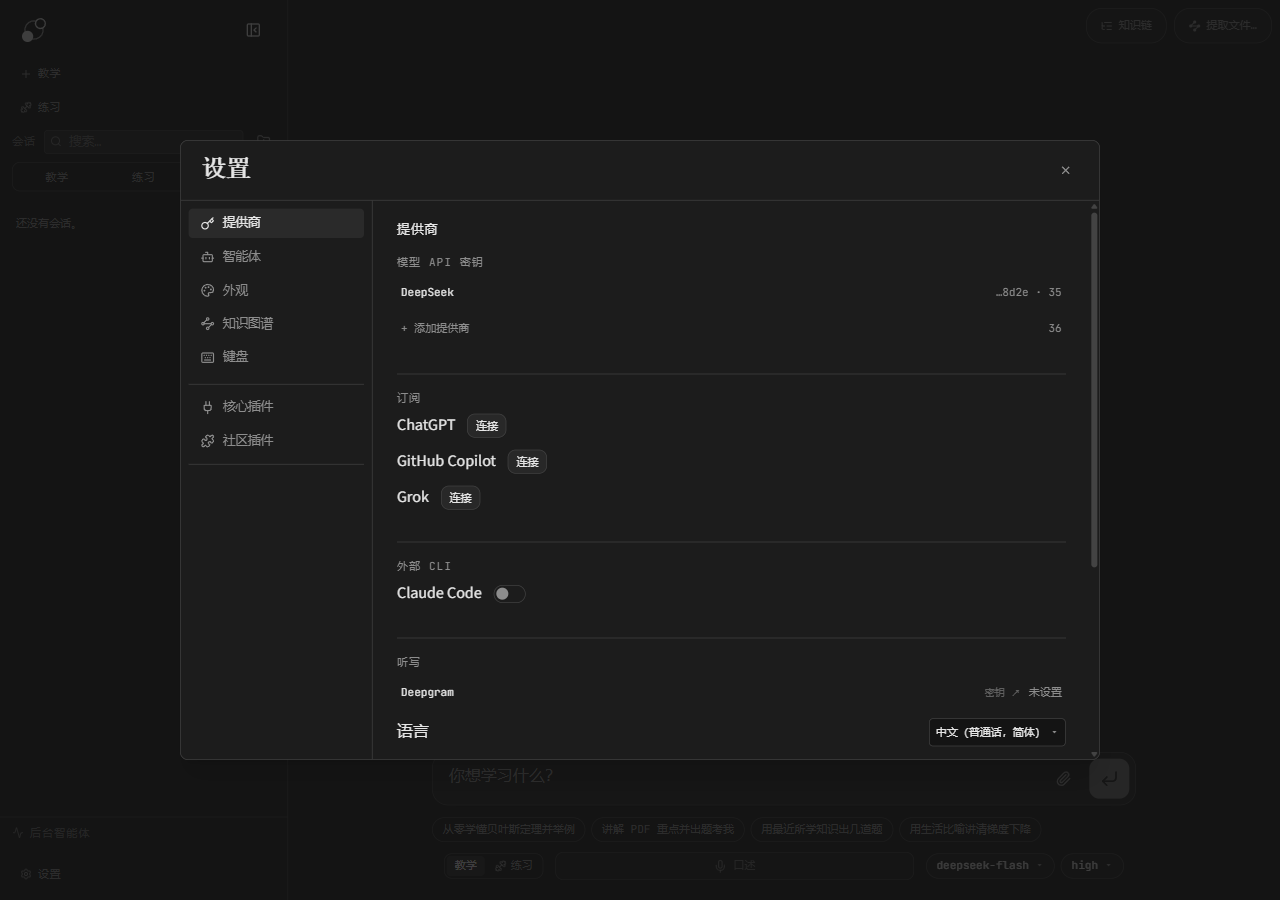
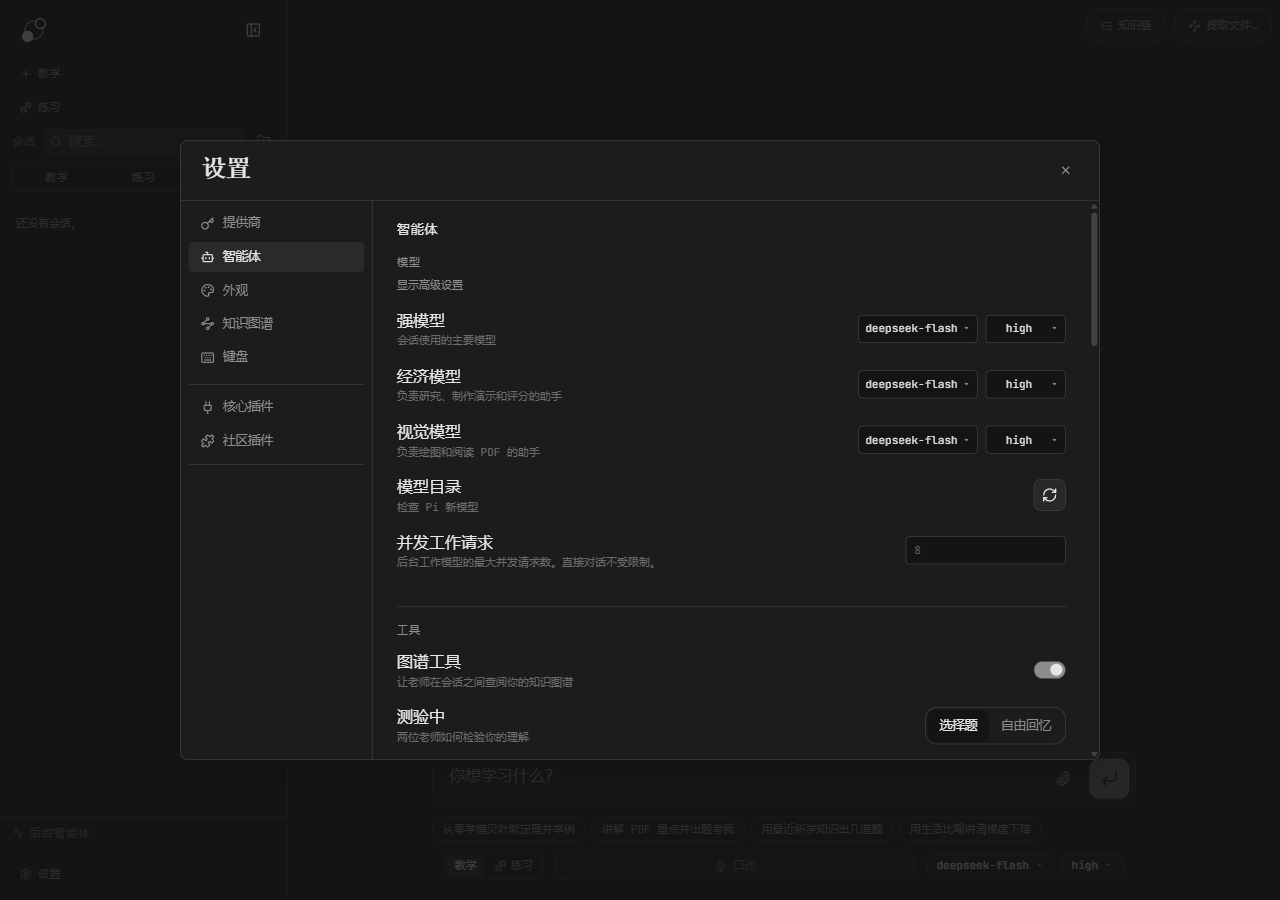
Refine screenshots and captions

diff --git a/README.ja.md b/README.ja.md
@@ -62,7 +62,7 @@
 
 モデルを選び、理解したい内容でセッションを始めます。プロバイダの API キー、デスクトップ版のサブスクリプション接続、インストール済みの Claude Code CLI、カスタム OpenAI 互換エンドポイント（ローカルモデルサーバーを含む）に対応しています。音声入力と Web 検索には別のサービスキーが必要です。
 
-モデルとキーの設定は一か所にまとまり、画面全体が中国語で表示されます。
+モデルと推論設定は一か所にまとまり、画面全体が中国語で表示されます。
 
 ![設定画面](docs/assets/zh/settings.png)
 

diff --git a/README.en.md b/README.en.md
@@ -62,7 +62,7 @@ Future teaching sessions read the graph rather than starting from scratch, and p
 
 Choose your models, then start a session with what you want to understand. Provider API keys, desktop subscription connections, an installed Claude Code CLI, or a custom OpenAI-compatible endpoint (including a local model server) are supported. Dictation and web search use separate service keys.
 
-Model and key settings live in one place, with Chinese labels and status throughout the interface:
+Model and reasoning settings live in one place, with Chinese labels and status throughout the interface:
 
 ![Settings view](docs/assets/zh/settings.png)
 

diff --git a/README.md b/README.md
@@ -61,7 +61,7 @@
 
 选择模型后，用你想理解的内容开启一个会话。可以使用提供商 API 密钥、桌面版订阅连接、已安装的 Claude Code CLI，或自定义 OpenAI 兼容端点（含本地模型服务）。听写与网页检索需要单独的服务密钥。
 
-模型与密钥的入口集中在设置里，界面与状态提示均为中文：
+模型与推理强度的入口集中在设置里，界面与状态提示均为中文：
 
 ![设置界面](docs/assets/zh/settings.png)
 
